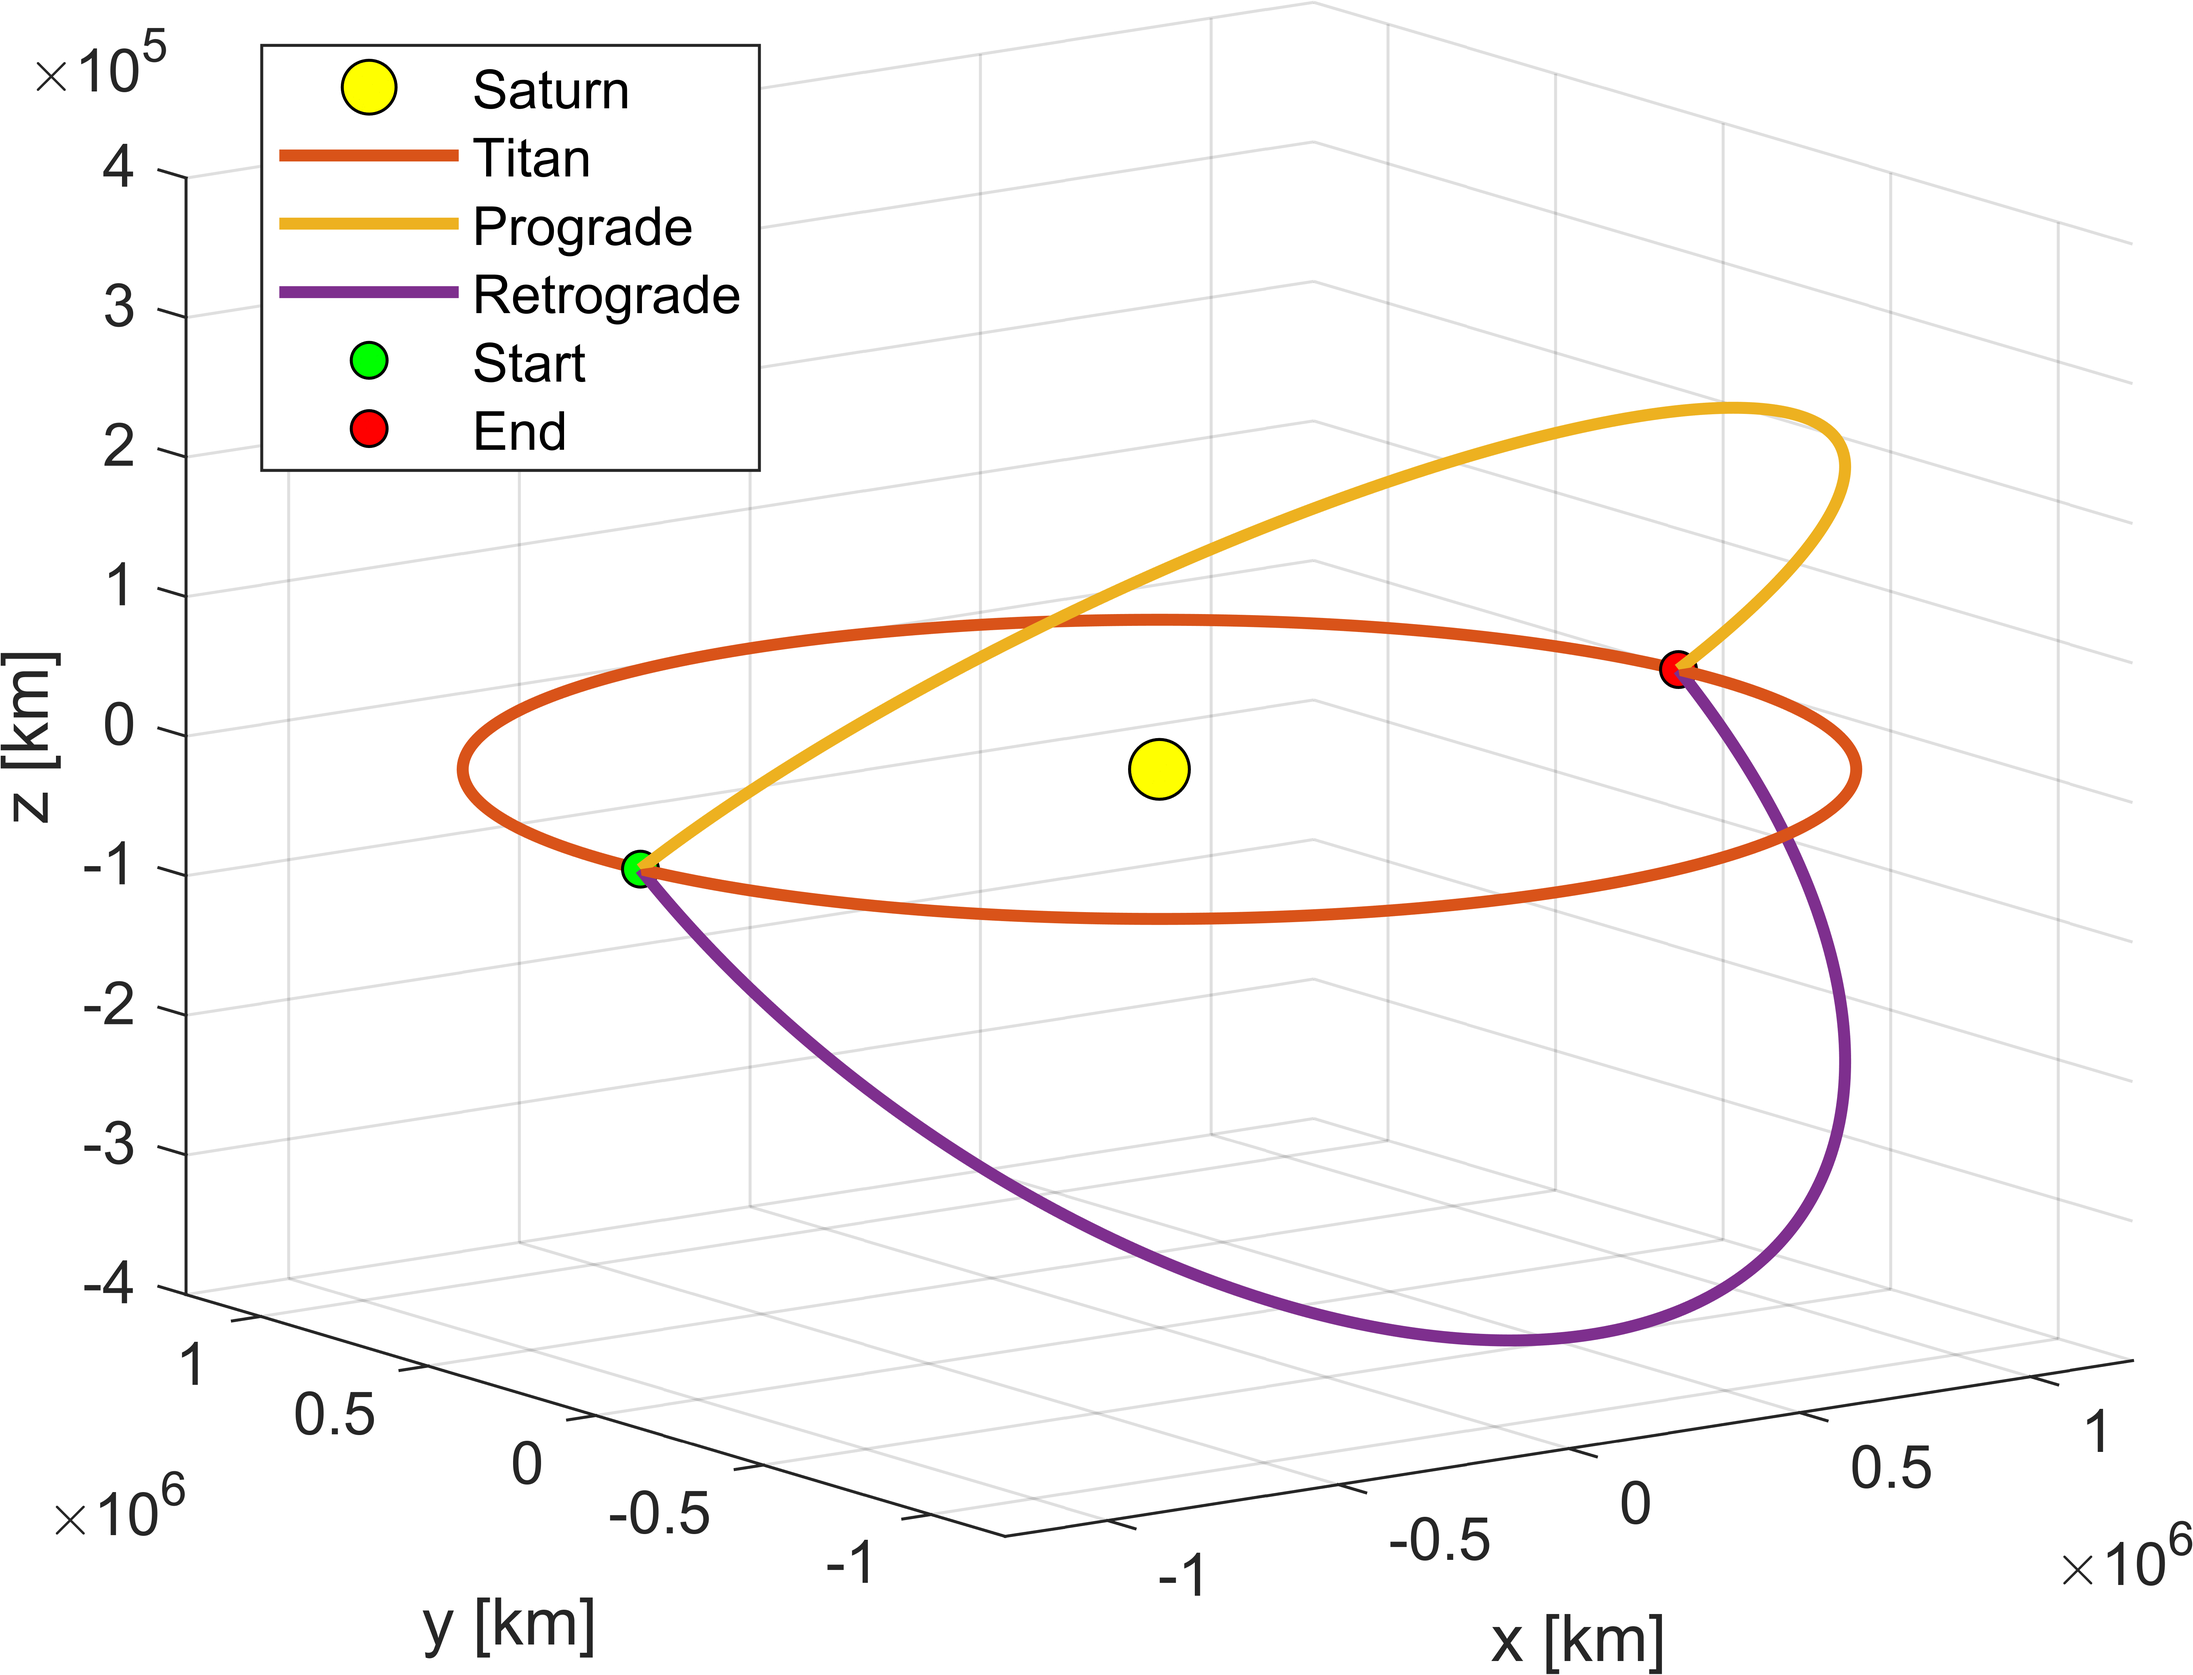
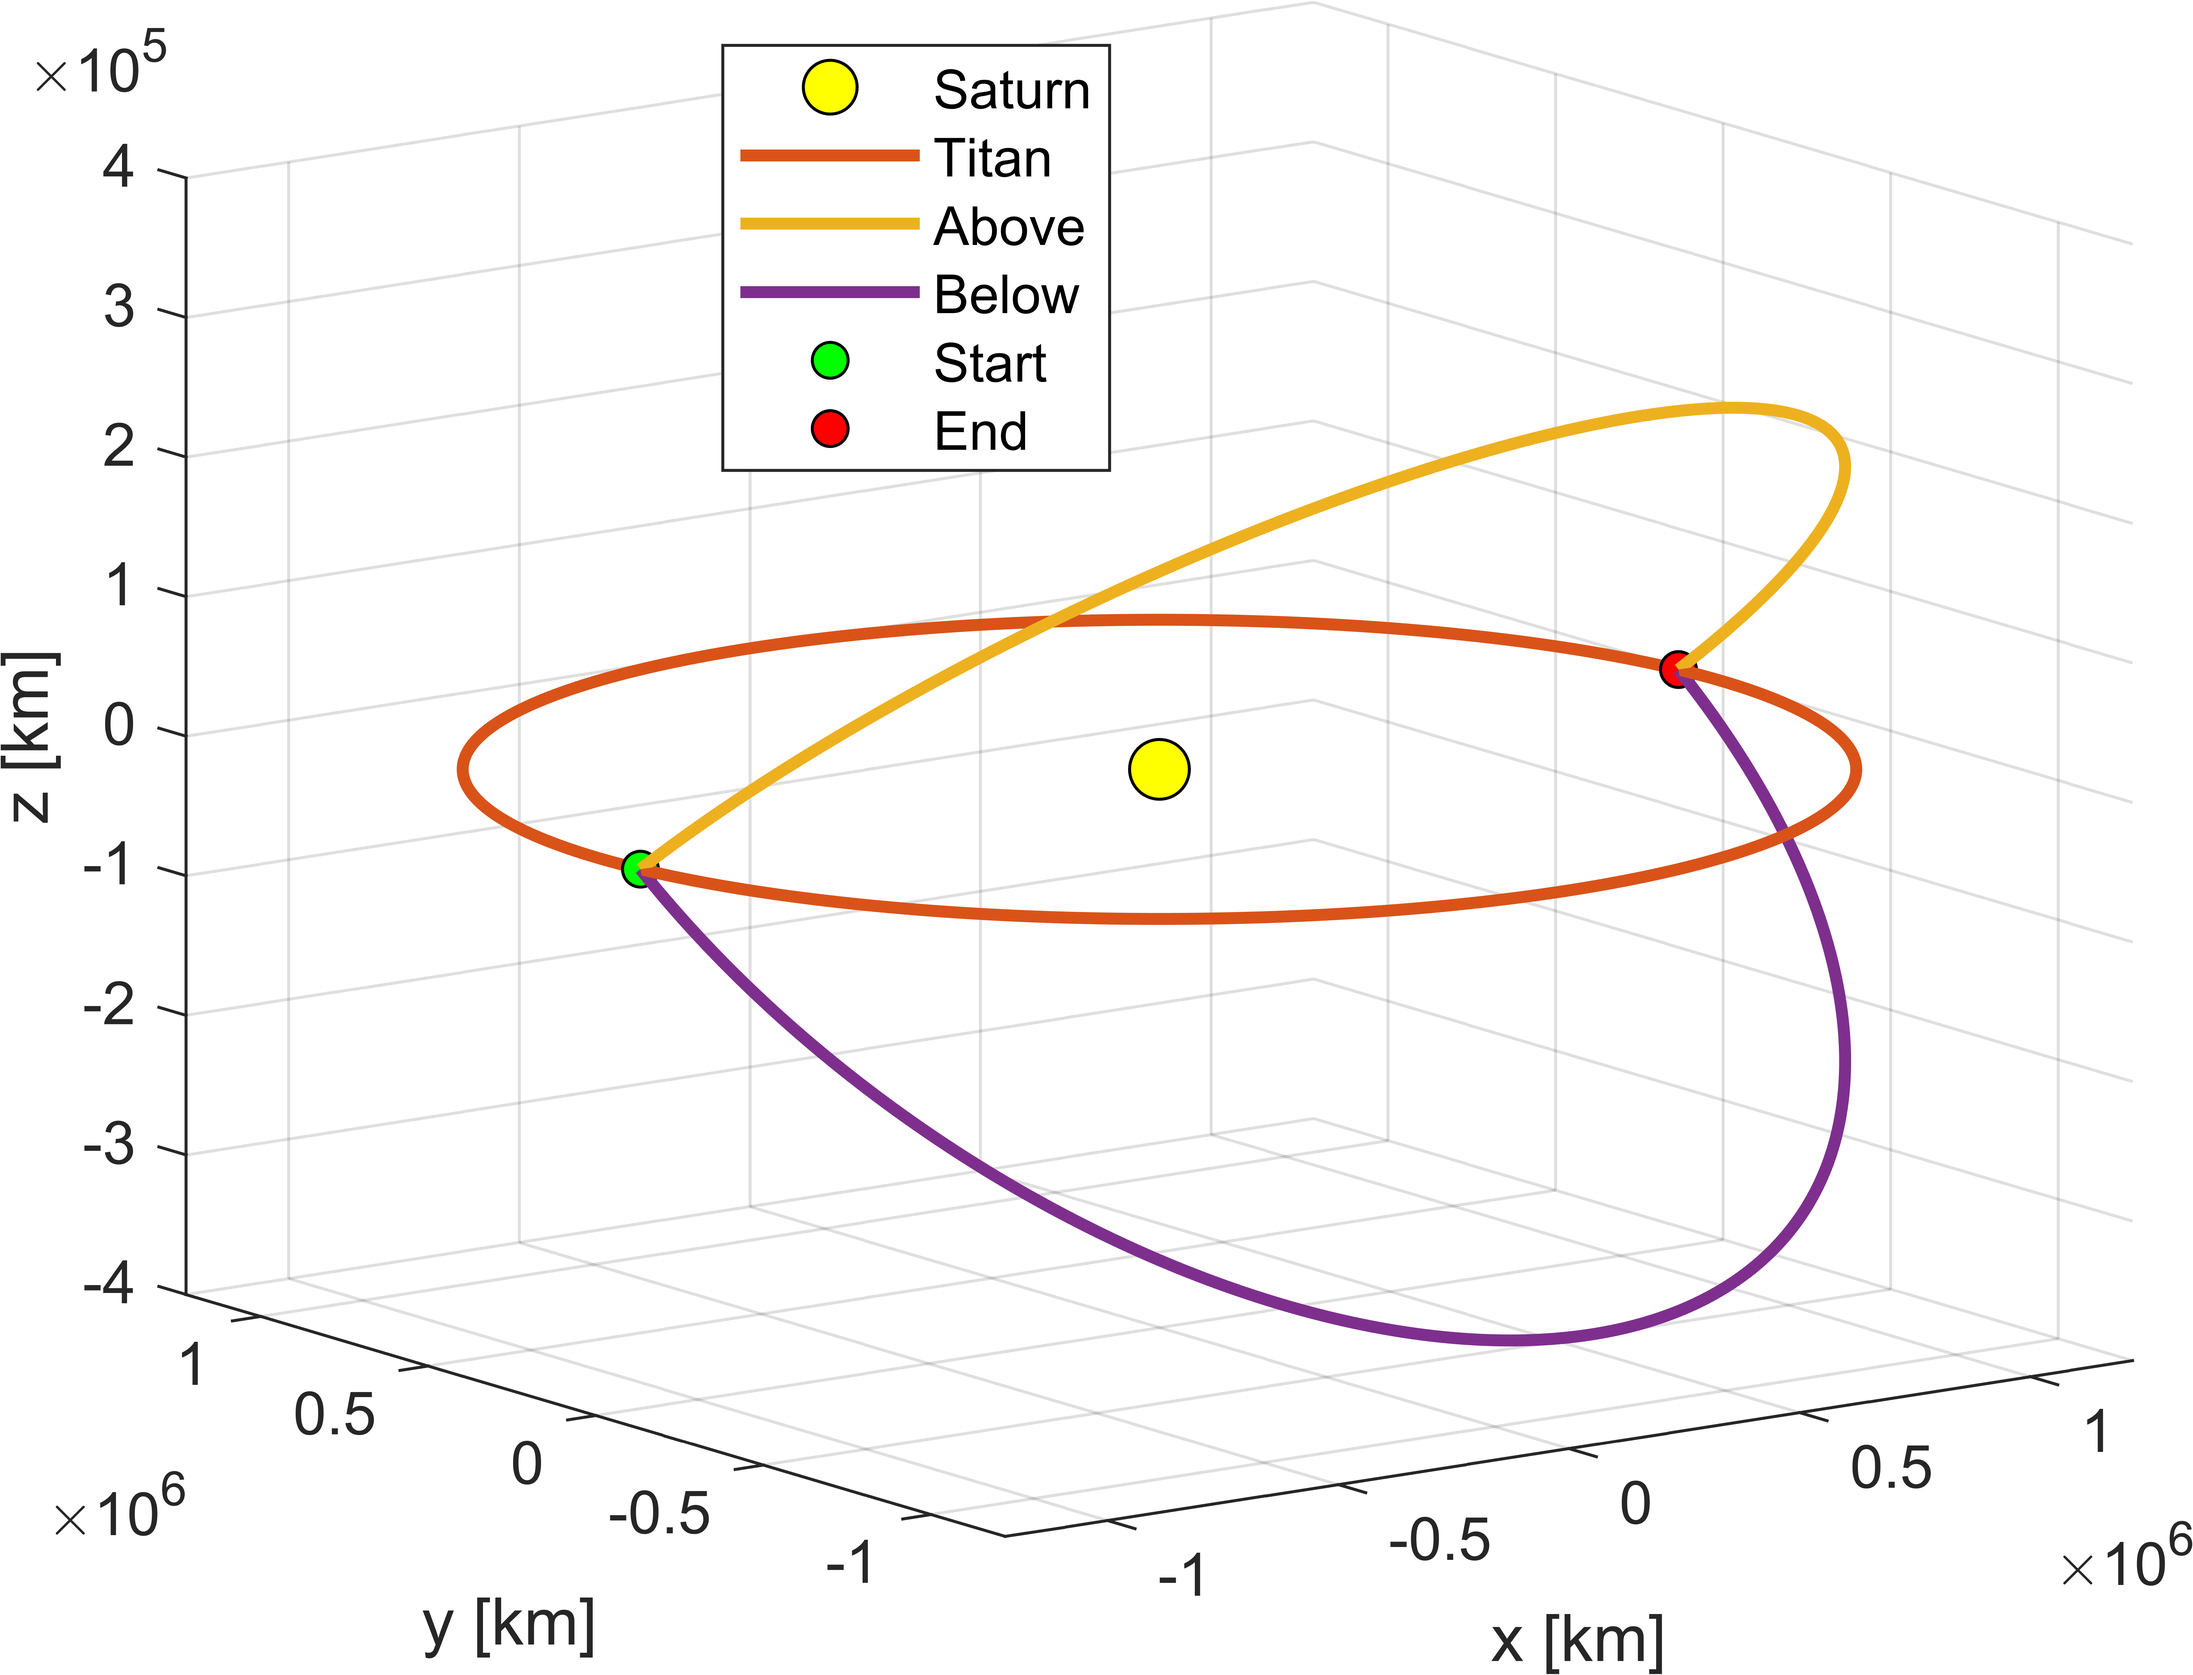
new images

Changed region(s): [[0.125, 0.031, 0.5, 0.2794]]

diff --git a/st0_1_different_transfer.m b/st0_1_different_transfer.m
@@ -58,7 +58,6 @@ type = 81; % --> Outbound-Inbound
 
 % --> plot moon's orbit and add the trajectory
 fig100 = plotMoons(idmoon, idcentral);
-axis normal;
 
 nameRes = [ num2str(N) ':' num2str(M) ];
 plot3( yy(:,1), yy(:,2), yy(:,3), 'LineWidth', 2, 'DisplayName', [nameRes '^+'] );
@@ -108,8 +107,8 @@ side                 = -1; % --> 1.ABOVE, -1.BELOW
 fig1 = plotMoons(idmoon, idcentral);
 axis normal;
 
-plot3( yy(:,1), yy(:,2), yy(:,3), 'LineWidth', 2, 'DisplayName', 'above' );
-plot3( yy2(:,1), yy2(:,2), yy2(:,3), 'LineWidth', 2, 'DisplayName', 'below' );
+plot3( yy(:,1), yy(:,2), yy(:,3), 'LineWidth', 2, 'DisplayName', 'Above' );
+plot3( yy2(:,1), yy2(:,2), yy2(:,3), 'LineWidth', 2, 'DisplayName', 'Below' );
 
 plot3( yy(1,1), yy(1,2), yy(1,3), 'o',...
     'MarkerEdgeColor', 'Black',...
@@ -180,8 +179,8 @@ exportgraphics(fig2, name, 'Resolution', 1200);
 N     = 2;
 M     = 1;
 L     = 0;
-type  = 18;
-kei   = -1;
+type  = 18;  % --> 1.INBOUND, 8.OUTBOUND
+kei   = -1;  % --> +1 for manoeuvre at APOAPSIS, -1 for manoeuvre at PERIAPSIS
 vinf1 = 1.5;
 vinf2 = 1.3;
 
